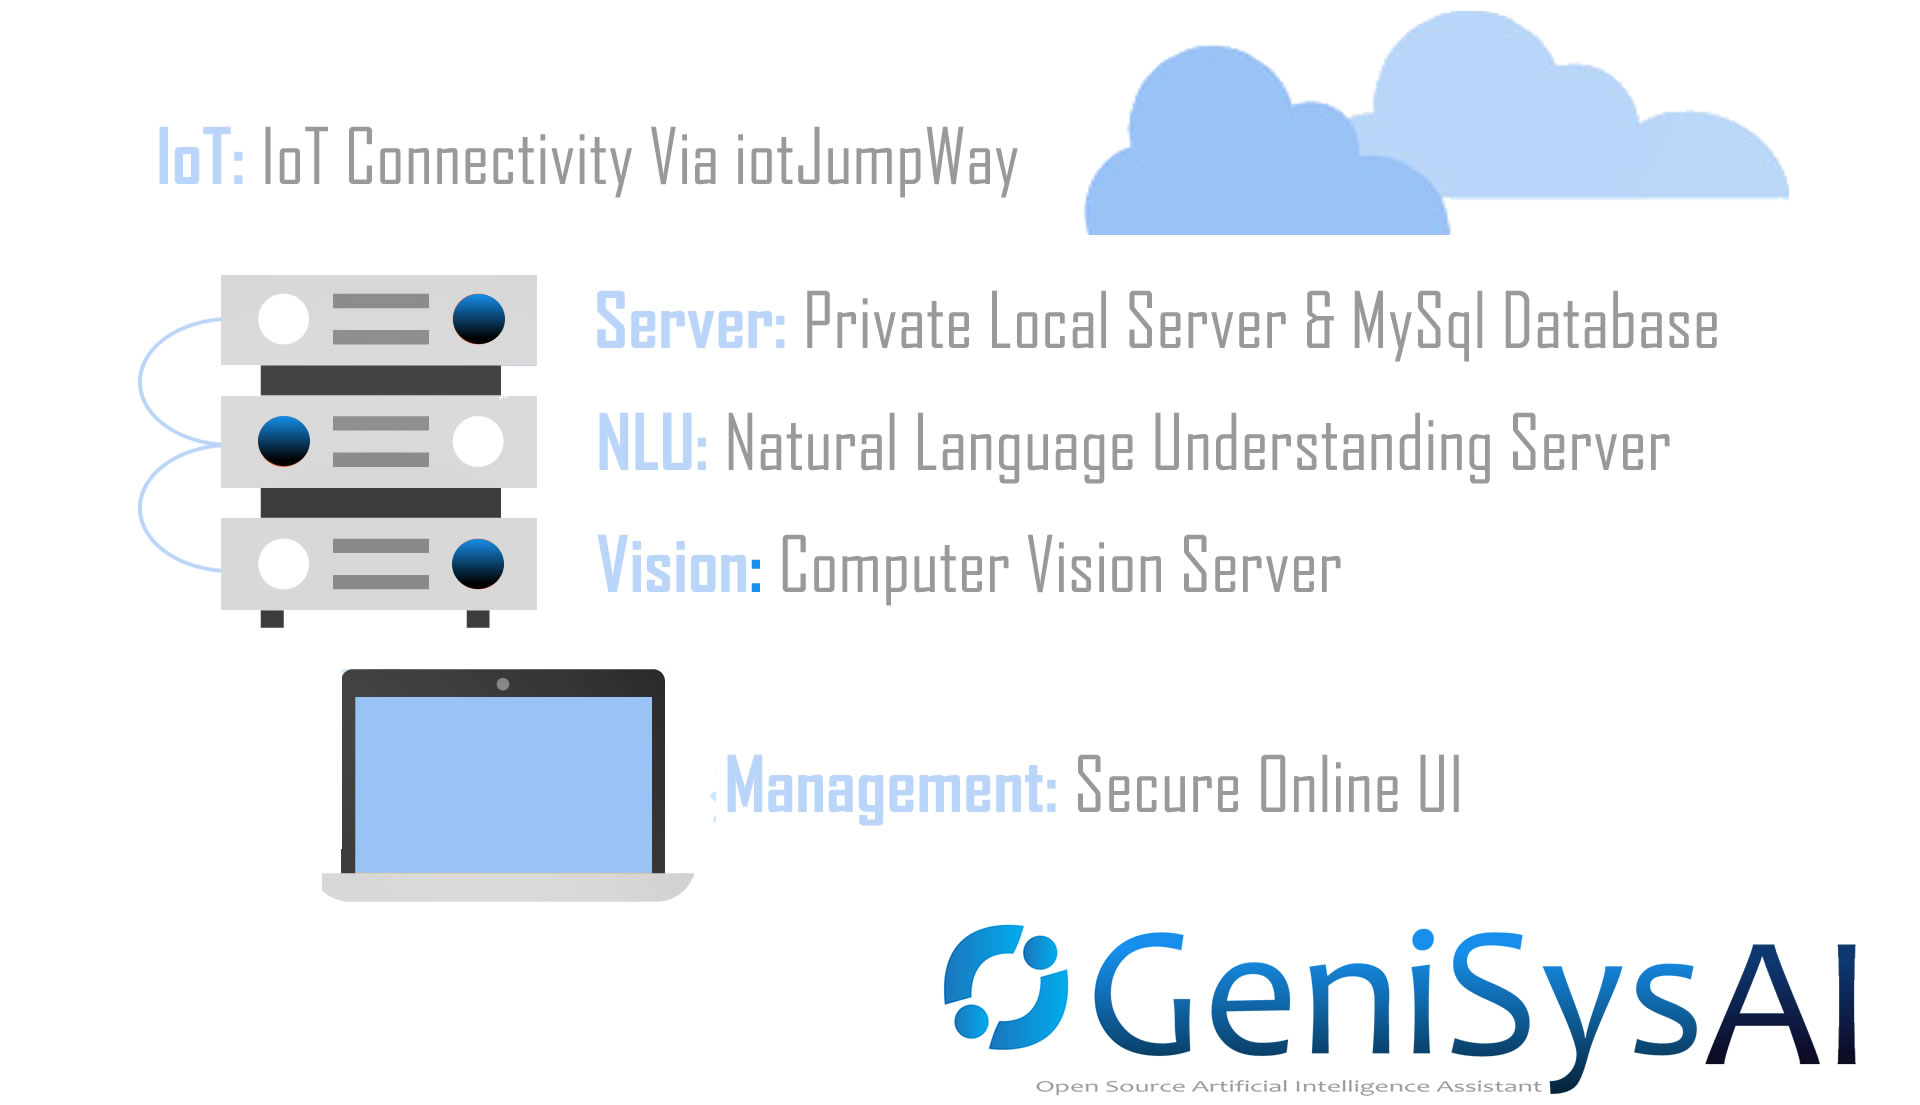
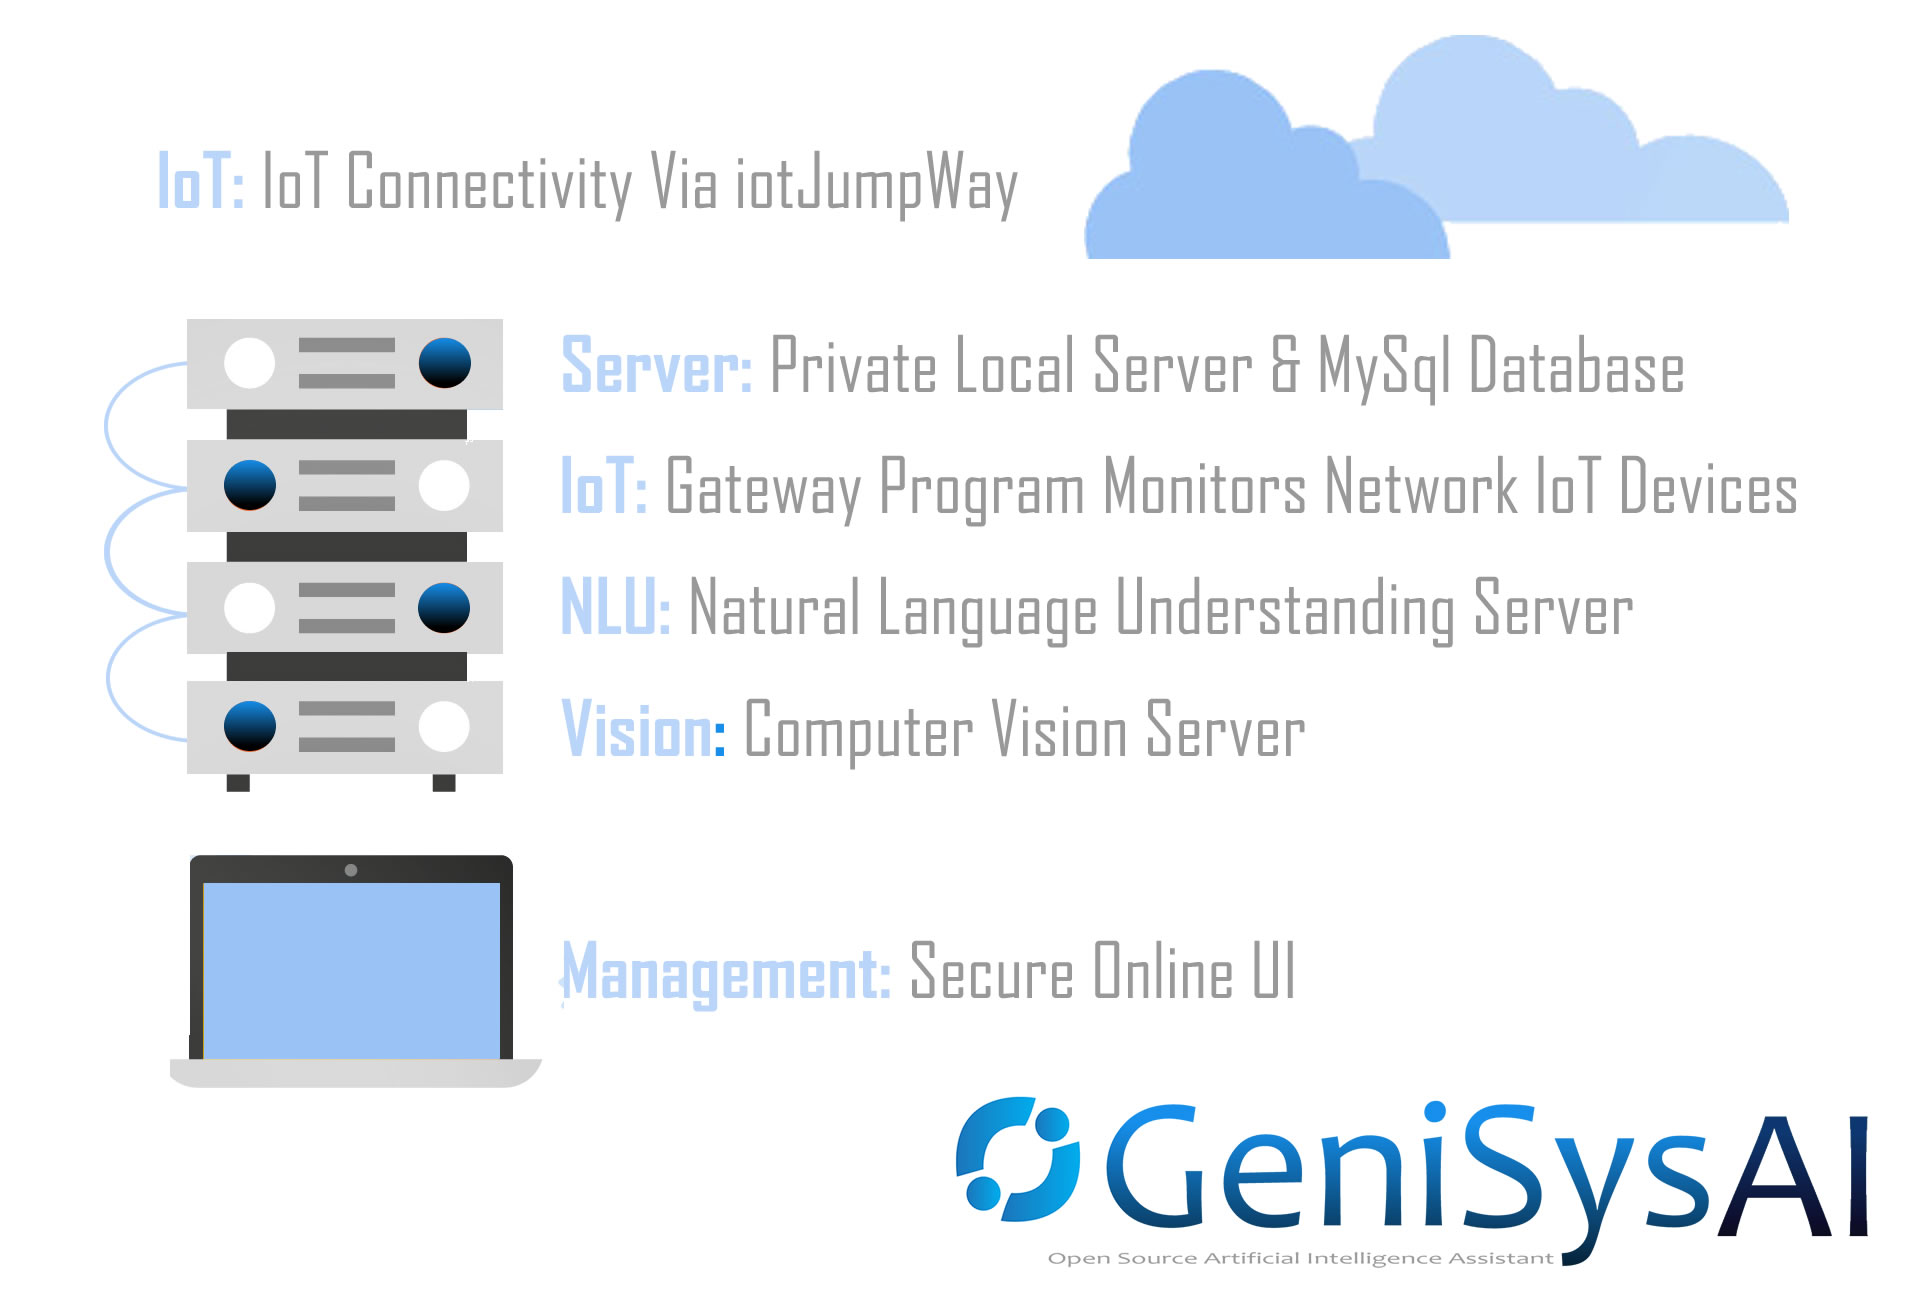
Added iotJumpWay info to README, updated configurations, images and sql

diff --git a/var/www/html/Server/index.php b/var/www/html/Server/index.php
@@ -67,7 +67,7 @@ $_users->checkSession();
                     </div>
                 </div>
 
-                <?php include dirname(__FILE__) . '/../includes/serverTop.php'; ?>
+                <?php include dirname(__FILE__) . '/../Server/includes/top.php'; ?>
                 <div class="clear"></div>
                 
                 <div class="row"> 
@@ -112,9 +112,9 @@ $_users->checkSession();
 
                                     <div class="form-group">
 
-                                        <label>iotJumpWay API URL</label>
-                                        <input type="text" id="jumpwayAPI" name="jumpwayAPI" class="form-control text-validate" value="<?=$_GeniSys->_confs['jumpwayAPI']; ?>">
-                                        <p class="help-block">URL of iotJumpWay API.</p>
+                                        <label>phpMyAdmin Endpoint</label>
+                                        <input type="text" id="phpmyadmin" name="phpmyadmin" class="form-control text-validate" value="<?=$_GeniSys->_confs['phpmyadmin']; ?>">
+                                        <p class="help-block">Endpoint of phpMyAdmin.</p>
 
                                     </div>
 

diff --git a/README.md b/README.md
@@ -3,11 +3,11 @@
 
 [![UPCOMING RELEASE](https://img.shields.io/badge/UPCOMING%20RELEASE-0.0.1-blue.svg)](https://github.com/GeniSysAI/Server/tree/0.0.1)
 
-## About GeniSys AI
+# About GeniSys AI
 
 GeniSys AI is an open source Artificial Intelligence Assistant Network using Computer Vision, Natural Linguistics and the Internet of Things. GeniSys uses a system based on [TASS A.I](https://github.com/TASS-AI/TASS-Facenet "TASS A.I") for [vision](https://github.com/GeniSysAI/Vision "vision"), an [NLU engine](https://github.com/GeniSysAI/NLU "NLU engine") for natural language understanding, in browser speech synthesis and speech recognition for speech and hearing, all homed on a dedicated Linux server in your home and managed via a secure UI.
 
-## About GeniSys AI Server
+# About GeniSys AI Server
 
 [GeniSys AI Server](https://github.com/GeniSysAI/Server "GeniSys AI Server") is a customisable management system for [GeniSys AI](https://github.com/GeniSysAI/Server "GeniSys AI") networks. The GeniSys management system is built on top of [Ubuntu 18.04.1 LTS (Bionic Beaver)](http://releases.ubuntu.com/18.04/ "Ubuntu 18.04.1 LTS (Bionic Beaver)"), but there should be no issues using other Linux operating systems. The server uses a secure PHP/MySql Nginx server, [Let’s Encrypt](https://letsencrypt.org/ "Let’s Encrypt") for free SSL encryption, and free IoT connectivity via the [iotJumpWay](https://www.iotJumpWay.tech "iotJumpWay").
 
@@ -19,24 +19,24 @@ Although the completed GeniSys Server will be accessible via the outside world, 
 
 This tutorial will help you setup the server required for your GeniSys network, and also takes you through setting up iotJumpWay devices and applications. In detail this guide will cover the following:
 
-- Installation: Ubuntu 18.04, Nginx, Let's Encrypt, PHP, MySql, phpMyAdmin, IP tables
-- Setup: Domain name & DNS configuration, router port forwarding, IP tables security, Device Proxy
+- Installation: Ubuntu 18.04, Nginx, Let's Encrypt, PHP, MySql, phpMyAdmin, IPTables, iotJumpWay
+- Setup: Nginx, PHP, MySql, phpMyAdmin, IPTables, iotJumpWay, Domain name & DNS configuration, router port forwarding, IPTables security, Device Proxies
 
 # Installation & Setup
 
 The following guides will give you the basics of setting up a GeniSys Server. 
 
-## Install Ubuntu 18.04
+# Install Ubuntu 18.04
 
 For this project, the operating system of choice is  [Ubuntu 18.04.1 LTS (Bionic Beaver)](http://releases.ubuntu.com/18.04/ "Ubuntu 18.04.1 LTS (Bionic Beaver)"). To get your operating system installed you can follow the [Create a bootable USB stick on Ubuntu](https://tutorials.ubuntu.com/tutorial/tutorial-create-a-usb-stick-on-ubuntu#0 "Create a bootable USB stick on Ubuntu") tutorial.
 
-## Setup Domain Name
+# Setup Domain Name
 
 Now is as good a time as any to sort out and configure a domain name. You need to have your domain already hosted on a hosting account, from there edit the DNS zone by adding an A record to your public IP, for this you need a static IP or IP software that will update the IP in the DNZ Zone each time it changes.
 
 Once you have done this your domain name or subdomain will be pointing towards your public IP, if port 80 and 443 are not currently listening for traffic then visiting your domain name will result in a timeout for now.
 
-## Install Nginx
+# Install Nginx
 
 Now it is time to install Nginx, follow the commands below to install the required software.
 
@@ -64,11 +64,11 @@ You can check the Nginx logs by using the following command:
 cat /var/log/nginx/error.log
 ```
 
-## Setup Port Forwarding
+# Setup Port Forwarding
 
 Now you have your domain pointing to your public IP, it is time to add a port forward, traffic to your network will be coming from port 80 (insecure) and secure. Although Nginx will bounce the insecure traffic to port 443, we still need to add a port forward for port 80 as well as 443. How you will do this will vary, but you need to find the area of your router that allows you to add port forwards, and then add one port forward for incoming insecure traffic to port 80 of the server, and one for port 443. This will open the HTTP ports on your router and forward the traffic to the same ports on your server. In the case someone tries to access using insecure protocol (http - port 80) they will be automatically be sent to the secure port of the server (https - 443)
 
-## Install Let's Encrypt
+# Install Let's Encrypt
 
 Security is everything, and it is even better when security is free ;) To encrypt our network we are going to use SSL provided by [Let’s Encrypt](https://letsencrypt.org/ "Let’s Encrypt"). Follow the commands below to set up Let’s Encrypt.
 
@@ -80,7 +80,7 @@ Security is everything, and it is even better when security is free ;) To encryp
 
 If you have followed above correctly you should now be able to access your website, but only using the secure protocol, 443, ie: https. If you visit your site you should now see the default Nginx page.
 
-## Install IPTables
+# Install IPTables
 
 Now you should install IPTables, to do this execute the following code:
 
@@ -117,7 +117,7 @@ Then save and reload:
  $ sudo service netfilter-persistent reload
 ```
 
-## Install MySql
+# Install MySql
 
 Now it is time to install MySql on your server. Follow the commands below and complete any required steps for the installation to accomplish this.
 
@@ -144,7 +144,13 @@ Also create a user for your application database.
  mysql> GRANT SELECT, INSERT, DELETE, CREATE  ON *.* TO 'YourNewUsername'@'localhost' IDENTIFIED BY 'YourNewPassword';
 ```
 
-## Install PHP
+Finally, create the required database:
+
+```
+ mysql> CREATE DATABASE YourDatabaseName
+```
+
+# Install PHP
 
 Now you will install PHP on your server. Follow the commands below and complete any required steps for the installation to accomplish this. You may need to swap 7.2 in the second command depending on what version of php-fpm is installed.
 
@@ -195,7 +201,7 @@ If you now visit the info page your website ie: https://www.YourDomain.com/info 
 
 ![GeniSys AI Server PHP config](images/PHP.jpg)
 
-## Install phpMyAdmin
+# Install phpMyAdmin
 
 Now you should install phpMyAdmin and upload the default MySql table configuration.
  
@@ -208,9 +214,41 @@ Press tab -> enter -> yes -> password, then create a link to phpMyAdmin, if you 
  $ sudo ln -s /usr/share/phpmyadmin /var/www/html
 ```
 
-Now you should be able to visit phpMyAdmin by accessing the relevant directory on your website.
+Now you should be able to visit phpMyAdmin by accessing the relevant directory on your website. 
 
-[![GeniSys AI Structure](images/GeniSys-Structure.png)](https://github.com/GeniSysAI)
+# Import MySql Databases
+
+First you can download the [basic database structure](https://github.com/GeniSysAI/Server/blob/0.0.1/requirements/database.sql "basic database structure") required for the GeniSys server, this structure will change frequently along with the rest of the project so you should keep an eye out for important changes. 
+
+Once you are logged in to phpMyAdmin, visit the import tab and import the sql file you just download and import it into the database you created earlier in the tutorial. 
+
+# Install iotJumpWay
+
+Now you need to install the iotJumpWay and setup some appications and devices. The following part of the tutorial will guide you through this. 
+
+- [Find out about the iotJumpWay](https://www.iotjumpway.tech/how-it-works "Find out about the iotJumpWay") 
+- [Find out about the iotJumpWay Dev Program](https://www.iotjumpway.tech/developers/ "Find out about the iotJumpWay Dev Program") 
+- [Get started with the iotJumpWay Dev Program](https://www.iotjumpway.tech/developers/getting-started "Get started with the iotJumpWay Dev Program") 
+
+[![iotJumpWay](images/iotJumpWayApplication.jpg)](https://www.iotJumpWay.tech/console)
+
+First of all you should [register your free iotJumpWay account](https://www.iotjumpway.tech/console/register "register your free iotJumpWay account"), all services provided by the iotJumpWay are also entirely free within fair limits. Once you have registered you need to:
+
+- Create your iotJumpWay location [(Documentation)](https://www.iotjumpway.tech/developers/getting-started-locations "(Documentation)") 
+- Create your iotJumpWay zones [(Documentation)](https://www.iotjumpway.tech/developers/getting-started-zones "(Documentation)")  
+- Create your iotJumpWay application [(Documentation)](https://www.iotjumpway.tech/developers/getting-started-applications "(Documentation)") 
+
+# Install Repository Code
+
+Now you can add the repository code to your server, to do this follow the guide:
+
+- Clone the repo to the desktop of your server, or your preferred location on your server. The repository files have the same paths they would have on your server. 
+- [/etc/nginx/sites-available/default](https://github.com/GeniSysAI/Server/blob/0.0.1/etc/nginx/sites-available/default  "/etc/nginx/sites-available/default") is an example of how your server NGINX configuration should look, located on your server in the same location as in the repo.
+- You can copy the entire contents of the [Server/0.0.1/var/www](https://github.com/GeniSysAI/Server/tree/0.0.1/var/www  "Server/0.0.1/var/www") directory to the /var/www directory on your server.
+
+# Update Configuration
+
+Now it is time to update our server configuration. Open the [/var/www/classes/startup/confs.json](https://github.com/GeniSysAI/Server/blob/0.0.1/var/www/classes/startup/confs.json  "/var/www/classes/startup/confs.json") file on your server and add your database credentials, your iotJumpWay application credentials, iotJumpWay location ID and Application MQTT credentials. You will use your iotJumpWay application credentials to authenticate yourself onto the UI. 
 
 # Contributing
 Please read **CONTRIBUTING.md** for details on our code of conduct, and the process for submitting pull requests to us.
